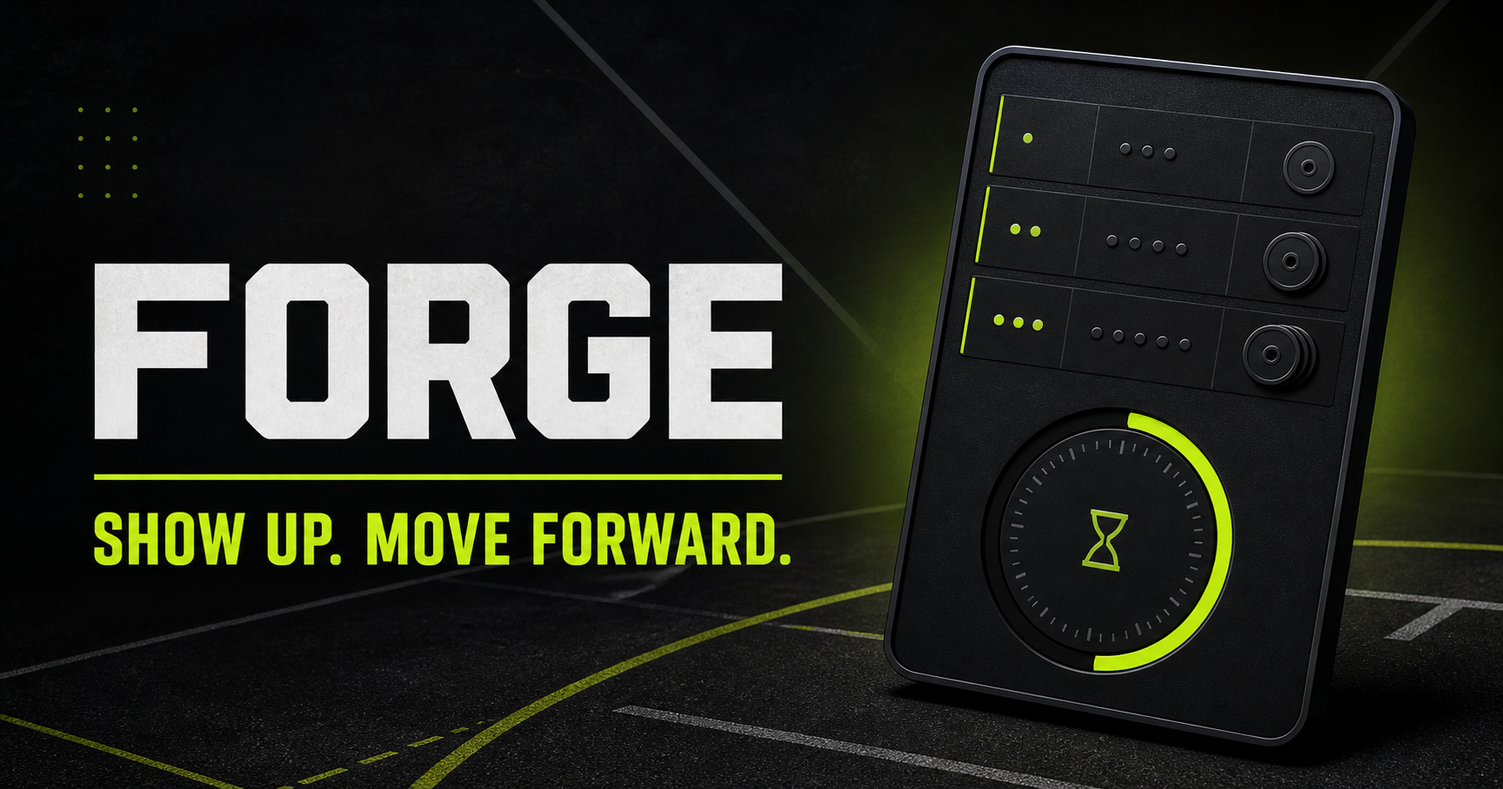
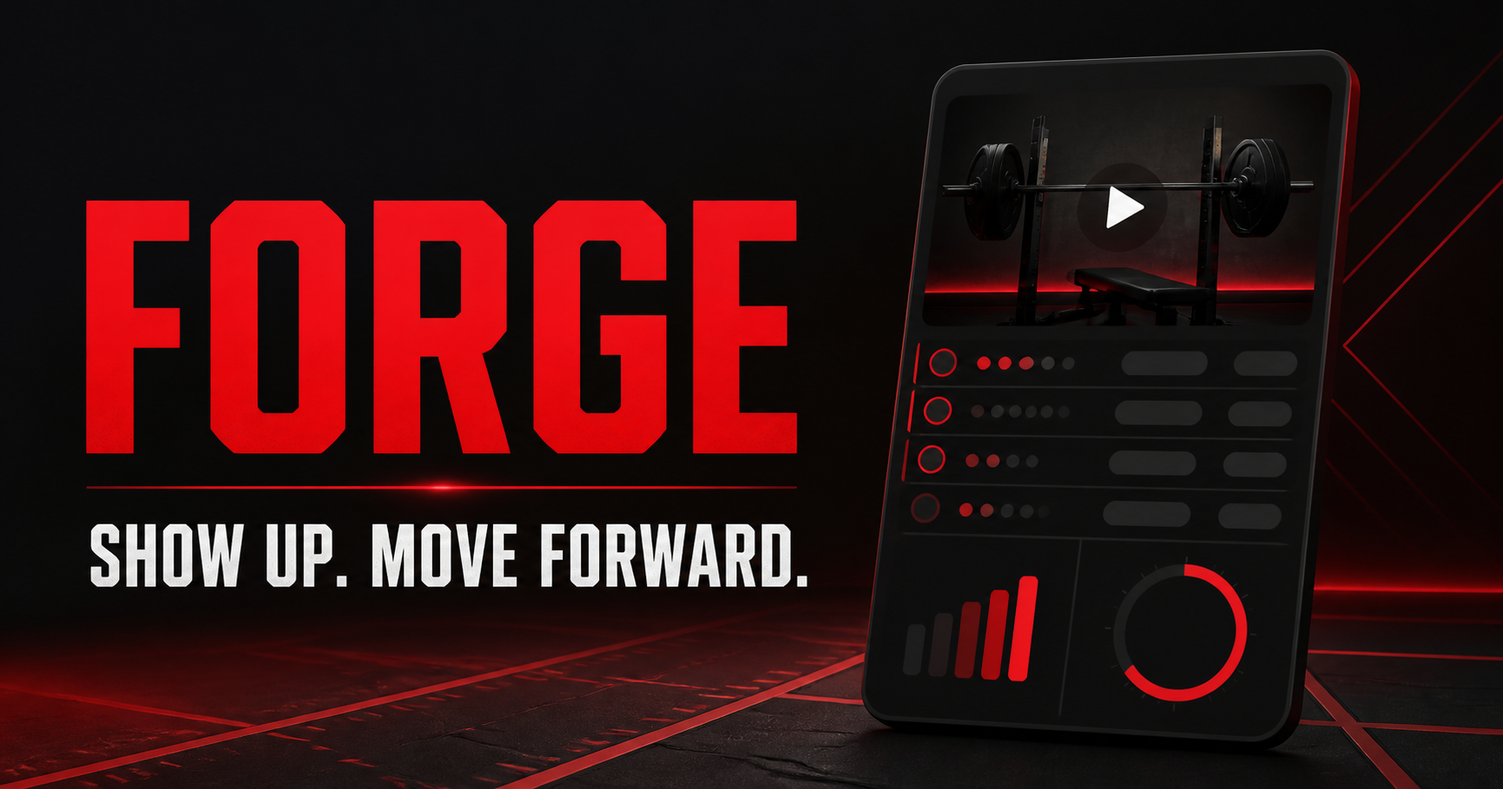
Update Forge theme videos and rest timer

diff --git a/app/globals.css b/app/globals.css
@@ -1,4 +1,6 @@
 @import url('https://fonts.googleapis.com/css2?family=DM+Sans:wght@400;500;600;700&family=Manrope:wght@600;700;800&display=swap');
-:root{color-scheme:dark;--bg:#080c0a;--panel:#121814;--line:#2a332c;--ink:#f3f7ef;--muted:#919c94;--acid:#cbff47}*{box-sizing:border-box}html{background:var(--bg)}body{margin:0;color:var(--ink);background:radial-gradient(circle at 78% -15%,#24331d 0,transparent 34rem),var(--bg);font-family:'DM Sans',sans-serif}button,a{font:inherit;-webkit-tap-highlight-color:transparent}button{cursor:pointer}.site-shell{max-width:1320px;min-height:100vh;margin:auto;padding:0 28px}.app-header{height:78px;display:flex;align-items:center;justify-content:space-between;border-bottom:1px solid var(--line)}.wordmark{display:flex;align-items:center;gap:11px;color:var(--ink);background:none;border:0;font:800 14px Manrope;letter-spacing:.15em}.mark{display:grid;place-items:center;width:34px;height:34px;background:var(--acid);color:#11170e;border-radius:10px 2px 10px 2px;font-size:19px}.week-pill{color:var(--muted);font-size:10px;letter-spacing:.11em}.sheet-button{display:flex;align-items:center;gap:8px;color:#dce7dc;text-decoration:none;font-size:12px}.sheet-grid{display:grid;place-items:center;width:31px;height:31px;border:1px solid #415044;border-radius:8px;color:var(--acid)}.home-view{padding:70px 0 36px}.hero-copy-block{display:grid;grid-template-columns:1.1fr .9fr;align-items:end;margin-bottom:47px}.kicker{color:var(--acid);font-size:11px;font-weight:800;letter-spacing:.15em}.hero-copy-block h1,.summary-hero h1{margin:10px 0 0;font:800 clamp(48px,6.6vw,86px)/.96 Manrope;letter-spacing:-.065em}.hero-copy-block h1 span{color:var(--acid)}.intro{max-width:440px;margin:0 0 7px;color:var(--muted);font-size:17px;line-height:1.6}.day-grid{display:grid;grid-template-columns:repeat(4,1fr);gap:13px}.day-card{min-height:285px;padding:20px;text-align:left;color:var(--ink);background:rgba(17,23,19,.82);border:1px solid var(--line);border-radius:18px;transition:.2s;display:flex;flex-direction:column;position:relative;overflow:hidden}.day-card:after{content:"";position:absolute;width:170px;height:170px;right:-90px;bottom:-110px;border:32px solid #273029;border-radius:50%}.day-card:hover,.day-card.active{transform:translateY(-3px);border-color:#7e9e42;background:#182019}.day-card.active{box-shadow:inset 0 -3px var(--acid)}.day-card-top,.day-card-meta{display:flex;align-items:center;justify-content:space-between}.day-card-top b,.day-card-top i{font-size:9px;letter-spacing:.13em}.day-card-top b{color:var(--acid)}.day-card-top i{color:#647068;font-style:normal}.day-card-number{margin-top:28px;font:800 50px/1 Manrope;color:#3b463e;letter-spacing:-.05em}.day-card-type{margin-top:13px;font:700 21px Manrope;text-transform:uppercase}.day-card-focus{margin-top:6px;color:var(--muted);font-size:12px}.day-card-meta{margin-top:auto;position:relative;z-index:1}.day-card-meta b,.day-card-meta small{font-size:10px}.day-card-meta b{color:#d7dfd8}.day-card-meta small{color:#6f7a72}.start-dock{margin-top:20px;padding:19px 20px 19px 24px;display:flex;align-items:center;justify-content:space-between;background:#141b16;border:1px solid var(--line);border-radius:16px}.start-dock>div span,.start-dock>div b{display:block}.start-dock>div span{color:var(--muted);font-size:9px;letter-spacing:.13em}.start-dock>div b{margin-top:5px;font:700 16px Manrope}.primary-action{min-width:230px;padding:15px 18px;border:0;border-radius:11px;background:var(--acid);color:#121810;font-weight:800;display:flex;align-items:center;justify-content:space-between}.primary-action span{font-size:20px}.source-note{text-align:center;color:#647068;font-size:10px;margin-top:17px}.source-note>span{margin:0 7px}.green-dot,.pulse-dot{display:inline-block;width:6px;height:6px;margin-right:7px!important;border-radius:50%;background:var(--acid)}.pulse-dot{animation:pulse 1s infinite}@keyframes pulse{50%{opacity:.25}}.session-progress{display:flex;align-items:center;gap:10px;color:var(--muted);font-size:9px;letter-spacing:.1em}.session-progress i{width:105px;height:3px;background:#2b342d}.session-progress b{display:block;height:100%;background:var(--acid)}.workout-view{padding:35px 0}.workout-titlebar{display:flex;justify-content:space-between;align-items:end;margin-bottom:22px}.step-label{color:var(--acid);font-size:10px;font-weight:800;letter-spacing:.13em}.workout-titlebar h2{margin:8px 0 4px;font:800 clamp(31px,4vw,53px)/1 Manrope;letter-spacing:-.05em}.workout-titlebar p{margin:0;color:var(--muted);font-size:11px}.exit-button{color:var(--muted);background:none;border:0;font-size:11px}.slide-card{display:grid;grid-template-columns:1.05fr .95fr;min-height:510px;background:var(--panel);border:1px solid var(--line);border-radius:22px;overflow:hidden}.demo-panel{display:grid;grid-template-rows:1fr auto;border-right:1px solid var(--line)}.demo-visual{min-height:380px;position:relative;display:grid;place-items:center;overflow:hidden;background:radial-gradient(circle at 50% 45%,#28331f 0,#101612 57%)}.exercise-letter{position:absolute;font:800 250px/1 Manrope;color:transparent;-webkit-text-stroke:1px #2d382d;opacity:.72}.motion-lines{position:absolute;inset:20% 13%;border:1px solid #28332a;transform:skew(-16deg);box-shadow:48px 23px 0 -47px var(--acid),-55px -18px 0 -54px var(--acid)}.play-button{z-index:2;width:78px;height:78px;border-radius:50%;display:grid;place-items:center;background:var(--acid);box-shadow:0 0 0 12px rgba(203,255,71,.08)}.play-button i{margin-left:5px;width:0;height:0;border-top:10px solid transparent;border-bottom:10px solid transparent;border-left:16px solid #11170e}.demo-caption{position:absolute;bottom:26px;color:#89948c;font-size:10px;text-transform:uppercase;letter-spacing:.12em}.cue{padding:18px 24px;background:#0e1310;border-top:1px solid var(--line)}.cue span,.set-line>span,.metric-block label,.next-time>span{color:var(--acid);font-size:9px;font-weight:800;letter-spacing:.12em}.cue p{margin:6px 0 0;color:#b7c1b9;font-size:12px}.entry-panel{padding:29px 34px;display:flex;flex-direction:column}.set-line{display:flex;align-items:center;justify-content:space-between;margin-bottom:25px}.set-line div{display:flex;gap:7px}.set-line i{display:grid;place-items:center;width:27px;height:27px;border:1px solid #39443c;border-radius:50%;color:#758078;font-size:10px;font-style:normal}.set-line i.active{color:#11180f;background:var(--acid);border-color:var(--acid);font-weight:800}.metric-block{padding:21px 0;border-top:1px solid var(--line)}.metric-block label{display:flex;justify-content:space-between}.metric-block label small{color:#778279;font-size:9px;letter-spacing:0}.stepper{display:grid;grid-template-columns:58px 1fr 58px;align-items:center;margin-top:13px}.stepper button{height:48px;color:var(--ink);background:#202821;border:1px solid #364139;border-radius:11px;font-size:22px}.stepper strong{text-align:center;font:800 48px/1 Manrope;letter-spacing:-.05em}.stepper em{margin-left:6px;color:var(--muted);font:500 12px 'DM Sans';font-style:normal}.bodyweight-value{margin-top:17px;font:800 29px Manrope;color:#dce6dc}.log-set-button{margin-top:auto;padding:16px 18px;color:#10160e;background:var(--acid);border:0;border-radius:11px;display:flex;justify-content:space-between;align-items:center}.log-set-button span{font-weight:800}.log-set-button b{font-size:9px;letter-spacing:.1em}.sync-line{text-align:center;color:#6c786f;font-size:9px;letter-spacing:.06em;margin:12px 0 0}.exercise-rail{display:flex;gap:8px;overflow:auto;padding:14px 0 2px;scrollbar-width:none}.exercise-rail button{flex:0 0 150px;padding:10px;text-align:left;white-space:nowrap;overflow:hidden;color:#778178;background:none;border:1px solid #252e27;border-radius:10px}.exercise-rail button span{display:block;color:#657168;font-size:9px}.exercise-rail button b{display:block;margin-top:4px;text-overflow:ellipsis;overflow:hidden;font-size:10px}.exercise-rail button.active{border-color:#779542;color:#eaf1ea}.exercise-rail button.active span,.exercise-rail button.done span{color:var(--acid)}.timer-sheet{position:fixed;z-index:20;left:50%;bottom:22px;transform:translateX(-50%);width:min(610px,calc(100% - 28px));padding:15px 18px;display:grid;grid-template-columns:auto 1fr auto;gap:18px;align-items:center;background:#eef7e7;color:#132013;border-radius:18px;box-shadow:0 20px 80px #000}.timer-ring{--timer-progress:360deg;width:72px;height:72px;border-radius:50%;display:grid;place-content:center;text-align:center;background:radial-gradient(circle,#eef7e7 57%,transparent 59%),conic-gradient(#59772b var(--timer-progress),#cad6c4 0)}.timer-ring strong{font:800 20px Manrope}.timer-ring span,.timer-sheet>div:nth-child(2)>span{display:block;font-size:8px;letter-spacing:.1em}.timer-sheet>div:nth-child(2)>b{font-size:13px}.timer-sheet button{background:none;border:0;color:#263a22;font-weight:800;font-size:10px}.summary-view{padding:58px 0 40px}.summary-hero{text-align:center}.finish-check{display:grid;place-items:center;width:50px;height:50px;margin:auto;border-radius:50%;background:var(--acid);color:#11180e;font-size:24px}.summary-hero h1{font-size:clamp(49px,6vw,78px)}.summary-hero>p:last-child{color:var(--muted)}.stats-grid{display:grid;grid-template-columns:repeat(4,1fr);margin-top:45px;border:1px solid var(--line);border-radius:18px;overflow:hidden}.stats-grid>div{padding:24px;border-right:1px solid var(--line);background:var(--panel)}.stats-grid>div:last-child{border:0}.stats-grid span,.analysis-tag{display:block;color:var(--muted);font-size:9px;letter-spacing:.12em}.stats-grid strong{display:block;margin:10px 0 4px;font:800 39px Manrope}.stats-grid small{color:#727e75}.stats-grid .positive{color:var(--acid)}.analysis-card{display:grid;grid-template-columns:1.25fr .75fr;gap:50px;margin-top:16px;padding:34px;background:linear-gradient(120deg,#171f19,#111712);border:1px solid var(--line);border-radius:18px}.analysis-card h2{margin:10px 0;font:800 29px Manrope}.analysis-card p{color:#9ca79e;line-height:1.6}.next-time{border-left:1px solid var(--line);padding-left:35px}.next-time ul{padding-left:17px;color:#aeb9b0;font-size:12px;line-height:2}.summary-actions{display:flex;justify-content:space-between;align-items:center;margin-top:18px}.summary-actions a{color:var(--muted);font-size:11px;text-decoration:none}
-@media(max-width:760px){.site-shell{padding:0 15px}.app-header{height:64px;position:sticky;top:0;z-index:10;background:rgba(8,12,10,.92);backdrop-filter:blur(12px)}.week-pill,.sheet-text{display:none}.home-view{padding:36px 0 28px}.hero-copy-block{display:block;margin-bottom:28px}.hero-copy-block h1{font-size:48px}.intro{font-size:14px;margin-top:19px}.day-grid{grid-template-columns:1fr 1fr;gap:9px}.day-card{min-height:210px;padding:15px}.day-card-top i{display:none}.day-card-number{font-size:35px;margin-top:21px}.day-card-type{font-size:15px}.day-card-focus{font-size:10px}.day-card-meta b{display:none}.start-dock{position:sticky;bottom:10px;z-index:8;padding:10px 10px 10px 15px;background:rgba(20,27,22,.95);backdrop-filter:blur(10px)}.start-dock>div span{display:none}.start-dock>div b{font-size:12px}.primary-action{min-width:150px;padding:13px}.source-note{line-height:1.5}.session-progress i{width:62px}.workout-view{padding:20px 0}.workout-titlebar{align-items:start}.workout-titlebar h2{font-size:29px;max-width:270px}.slide-card{grid-template-columns:1fr;border-radius:17px}.demo-panel{border-right:0}.demo-visual{min-height:230px}.exercise-letter{font-size:150px}.play-button{width:62px;height:62px}.cue{padding:14px 17px}.entry-panel{padding:20px}.set-line{margin-bottom:13px}.metric-block{padding:15px 0}.stepper{grid-template-columns:52px 1fr 52px}.stepper button{height:44px}.stepper strong{font-size:40px}.log-set-button{position:sticky;bottom:8px}.exercise-rail{padding-bottom:20px}.timer-sheet{bottom:10px;grid-template-columns:auto 1fr;padding:12px}.timer-ring{width:58px;height:58px}.timer-sheet>button{grid-column:2;text-align:left}.summary-view{padding:35px 0}.summary-hero h1{font-size:50px}.stats-grid{grid-template-columns:1fr 1fr}.stats-grid>div{border-bottom:1px solid var(--line)}.stats-grid>div:nth-child(2){border-right:0}.stats-grid strong{font-size:32px}.analysis-card{grid-template-columns:1fr;gap:18px;padding:24px}.next-time{border-left:0;border-top:1px solid var(--line);padding:20px 0 0}.summary-actions{align-items:stretch;flex-direction:column-reverse;gap:16px}.summary-actions a{text-align:center}}
+:root{color-scheme:dark;--bg:#070707;--panel:#121212;--line:#312020;--ink:#f7f3f3;--muted:#a19696;--acid:#ff2f2f}*{box-sizing:border-box}html{background:var(--bg)}body{margin:0;color:var(--ink);background:radial-gradient(circle at 78% -15%,#3a0d0d 0,transparent 34rem),var(--bg);font-family:'DM Sans',sans-serif}button,a{font:inherit;-webkit-tap-highlight-color:transparent}button{cursor:pointer}.site-shell{max-width:1320px;min-height:100vh;margin:auto;padding:0 28px}.app-header{height:78px;display:flex;align-items:center;justify-content:space-between;border-bottom:1px solid var(--line)}.wordmark{display:flex;align-items:center;gap:11px;color:var(--ink);background:none;border:0;font:800 14px Manrope;letter-spacing:.15em}.mark{display:grid;place-items:center;width:34px;height:34px;background:var(--acid);color:#11170e;border-radius:10px 2px 10px 2px;font-size:19px}.week-pill{color:var(--muted);font-size:10px;letter-spacing:.11em}.sheet-button{display:flex;align-items:center;gap:8px;color:#eadede;text-decoration:none;font-size:12px}.sheet-grid{display:grid;place-items:center;width:31px;height:31px;border:1px solid #543333;border-radius:8px;color:var(--acid)}.home-view{padding:70px 0 36px}.hero-copy-block{display:grid;grid-template-columns:1.1fr .9fr;align-items:end;margin-bottom:47px}.kicker{color:var(--acid);font-size:11px;font-weight:800;letter-spacing:.15em}.hero-copy-block h1,.summary-hero h1{margin:10px 0 0;font:800 clamp(48px,6.6vw,86px)/.96 Manrope;letter-spacing:-.065em}.hero-copy-block h1 span{color:var(--acid)}.intro{max-width:440px;margin:0 0 7px;color:var(--muted);font-size:17px;line-height:1.6}.day-grid{display:grid;grid-template-columns:repeat(4,1fr);gap:13px}.day-card{min-height:285px;padding:20px;text-align:left;color:var(--ink);background:rgba(17,23,19,.82);border:1px solid var(--line);border-radius:18px;transition:.2s;display:flex;flex-direction:column;position:relative;overflow:hidden}.day-card:after{content:"";position:absolute;width:170px;height:170px;right:-90px;bottom:-110px;border:32px solid #382222;border-radius:50%}.day-card:hover,.day-card.active{transform:translateY(-3px);border-color:#a62d2d;background:#1c1111}.day-card.active{box-shadow:inset 0 -3px var(--acid)}.day-card-top,.day-card-meta{display:flex;align-items:center;justify-content:space-between}.day-card-top b,.day-card-top i{font-size:9px;letter-spacing:.13em}.day-card-top b{color:var(--acid)}.day-card-top i{color:#887979;font-style:normal}.day-card-number{margin-top:28px;font:800 50px/1 Manrope;color:#4a3030;letter-spacing:-.05em}.day-card-type{margin-top:13px;font:700 21px Manrope;text-transform:uppercase}.day-card-focus{margin-top:6px;color:var(--muted);font-size:12px}.day-card-meta{margin-top:auto;position:relative;z-index:1}.day-card-meta b,.day-card-meta small{font-size:10px}.day-card-meta b{color:#eadede}.day-card-meta small{color:#8c7c7c}.start-dock{margin-top:20px;padding:19px 20px 19px 24px;display:flex;align-items:center;justify-content:space-between;background:#171111;border:1px solid var(--line);border-radius:16px}.start-dock>div span,.start-dock>div b{display:block}.start-dock>div span{color:var(--muted);font-size:9px;letter-spacing:.13em}.start-dock>div b{margin-top:5px;font:700 16px Manrope}.primary-action{min-width:230px;padding:15px 18px;border:0;border-radius:11px;background:var(--acid);color:#121810;font-weight:800;display:flex;align-items:center;justify-content:space-between}.primary-action span{font-size:20px}.source-note{text-align:center;color:#887979;font-size:10px;margin-top:17px}.source-note>span{margin:0 7px}.green-dot,.pulse-dot{display:inline-block;width:6px;height:6px;margin-right:7px!important;border-radius:50%;background:var(--acid)}.pulse-dot{animation:pulse 1s infinite}@keyframes pulse{50%{opacity:.25}}.session-progress{display:flex;align-items:center;gap:10px;color:var(--muted);font-size:9px;letter-spacing:.1em}.session-progress i{width:105px;height:3px;background:#362424}.session-progress b{display:block;height:100%;background:var(--acid)}.workout-view{padding:35px 0}.workout-titlebar{display:flex;justify-content:space-between;align-items:end;margin-bottom:22px}.step-label{color:var(--acid);font-size:10px;font-weight:800;letter-spacing:.13em}.workout-titlebar h2{margin:8px 0 4px;font:800 clamp(31px,4vw,53px)/1 Manrope;letter-spacing:-.05em}.workout-titlebar p{margin:0;color:var(--muted);font-size:11px}.exit-button{color:var(--muted);background:none;border:0;font-size:11px}.slide-card{display:grid;grid-template-columns:1.05fr .95fr;min-height:510px;background:var(--panel);border:1px solid var(--line);border-radius:22px;overflow:hidden}.demo-panel{display:grid;grid-template-rows:1fr auto;border-right:1px solid var(--line)}.demo-visual{min-height:380px;position:relative;display:grid;place-items:center;overflow:hidden;background:radial-gradient(circle at 50% 45%,#321313 0,#0d0909 57%)}.exercise-letter{position:absolute;font:800 250px/1 Manrope;color:transparent;-webkit-text-stroke:1px #2d382d;opacity:.72}.motion-lines{position:absolute;inset:20% 13%;border:1px solid #342020;transform:skew(-16deg);box-shadow:48px 23px 0 -47px var(--acid),-55px -18px 0 -54px var(--acid)}.play-button{z-index:2;width:78px;height:78px;border-radius:50%;display:grid;place-items:center;background:var(--acid);box-shadow:0 0 0 12px rgba(255,47,47,.08)}.play-button i{margin-left:5px;width:0;height:0;border-top:10px solid transparent;border-bottom:10px solid transparent;border-left:16px solid #11170e}.demo-caption{position:absolute;bottom:26px;color:#89948c;font-size:10px;text-transform:uppercase;letter-spacing:.12em}.cue{padding:18px 24px;background:#0e1310;border-top:1px solid var(--line)}.cue span,.set-line>span,.metric-block label,.next-time>span{color:var(--acid);font-size:9px;font-weight:800;letter-spacing:.12em}.cue p{margin:6px 0 0;color:#b7c1b9;font-size:12px}.entry-panel{padding:29px 34px;display:flex;flex-direction:column}.set-line{display:flex;align-items:center;justify-content:space-between;margin-bottom:25px}.set-line div{display:flex;gap:7px}.set-line i{display:grid;place-items:center;width:27px;height:27px;border:1px solid #39443c;border-radius:50%;color:#758078;font-size:10px;font-style:normal}.set-line i.active{color:#11180f;background:var(--acid);border-color:var(--acid);font-weight:800}.metric-block{padding:21px 0;border-top:1px solid var(--line)}.metric-block label{display:flex;justify-content:space-between}.metric-block label small{color:#778279;font-size:9px;letter-spacing:0}.stepper{display:grid;grid-template-columns:58px 1fr 58px;align-items:center;margin-top:13px}.stepper button{height:48px;color:var(--ink);background:#211616;border:1px solid #4b2c2c;border-radius:11px;font-size:22px}.stepper strong{text-align:center;font:800 48px/1 Manrope;letter-spacing:-.05em}.stepper em{margin-left:6px;color:var(--muted);font:500 12px 'DM Sans';font-style:normal}.bodyweight-value{margin-top:17px;font:800 29px Manrope;color:#eee3e3}.log-set-button{margin-top:auto;padding:16px 18px;color:#10160e;background:var(--acid);border:0;border-radius:11px;display:flex;justify-content:space-between;align-items:center}.log-set-button span{font-weight:800}.log-set-button b{font-size:9px;letter-spacing:.1em}.sync-line{text-align:center;color:#6c786f;font-size:9px;letter-spacing:.06em;margin:12px 0 0}.exercise-rail{display:flex;gap:8px;overflow:auto;padding:14px 0 2px;scrollbar-width:none}.exercise-rail button{flex:0 0 150px;padding:10px;text-align:left;white-space:nowrap;overflow:hidden;color:#778178;background:none;border:1px solid #252e27;border-radius:10px}.exercise-rail button span{display:block;color:#657168;font-size:9px}.exercise-rail button b{display:block;margin-top:4px;text-overflow:ellipsis;overflow:hidden;font-size:10px}.exercise-rail button.active{border-color:#a93b3b;color:#fff0f0}.exercise-rail button.active span,.exercise-rail button.done span{color:var(--acid)}.timer-sheet{position:fixed;z-index:20;left:50%;bottom:22px;transform:translateX(-50%);width:min(610px,calc(100% - 28px));padding:15px 18px;display:grid;grid-template-columns:auto 1fr auto;gap:18px;align-items:center;background:#161010;color:#f7eded;border-radius:18px;box-shadow:0 20px 80px #000}.timer-ring{--timer-progress:360deg;width:72px;height:72px;border-radius:50%;display:grid;place-content:center;text-align:center;background:radial-gradient(circle,#161010 57%,transparent 59%),conic-gradient(#ff2f2f var(--timer-progress),#3a2626 0)}.timer-ring strong{font:800 20px Manrope}.timer-ring span,.timer-sheet>div:nth-child(2)>span{display:block;font-size:8px;letter-spacing:.1em}.timer-sheet>div:nth-child(2)>b{font-size:13px}.timer-sheet button{background:none;border:0;color:#f3dede;font-weight:800;font-size:10px}.summary-view{padding:58px 0 40px}.summary-hero{text-align:center}.finish-check{display:grid;place-items:center;width:50px;height:50px;margin:auto;border-radius:50%;background:var(--acid);color:#11180e;font-size:24px}.summary-hero h1{font-size:clamp(49px,6vw,78px)}.summary-hero>p:last-child{color:var(--muted)}.stats-grid{display:grid;grid-template-columns:repeat(4,1fr);margin-top:45px;border:1px solid var(--line);border-radius:18px;overflow:hidden}.stats-grid>div{padding:24px;border-right:1px solid var(--line);background:var(--panel)}.stats-grid>div:last-child{border:0}.stats-grid span,.analysis-tag{display:block;color:var(--muted);font-size:9px;letter-spacing:.12em}.stats-grid strong{display:block;margin:10px 0 4px;font:800 39px Manrope}.stats-grid small{color:#727e75}.stats-grid .positive{color:var(--acid)}.analysis-card{display:grid;grid-template-columns:1.25fr .75fr;gap:50px;margin-top:16px;padding:34px;background:linear-gradient(120deg,#1d1111,#0f0b0b);border:1px solid var(--line);border-radius:18px}.analysis-card h2{margin:10px 0;font:800 29px Manrope}.analysis-card p{color:#ad9b9b;line-height:1.6}.next-time{border-left:1px solid var(--line);padding-left:35px}.next-time ul{padding-left:17px;color:#bca9a9;font-size:12px;line-height:2}.summary-actions{display:flex;justify-content:space-between;align-items:center;margin-top:18px}.summary-actions a{color:var(--muted);font-size:11px;text-decoration:none}
+@media(max-width:760px){.site-shell{padding:0 15px}.app-header{height:64px;position:sticky;top:0;z-index:10;background:rgba(7,7,7,.92);backdrop-filter:blur(12px)}.week-pill,.sheet-text{display:none}.home-view{padding:36px 0 28px}.hero-copy-block{display:block;margin-bottom:28px}.hero-copy-block h1{font-size:48px}.intro{font-size:14px;margin-top:19px}.day-grid{grid-template-columns:1fr 1fr;gap:9px}.day-card{min-height:210px;padding:15px}.day-card-top i{display:none}.day-card-number{font-size:35px;margin-top:21px}.day-card-type{font-size:15px}.day-card-focus{font-size:10px}.day-card-meta b{display:none}.start-dock{position:sticky;bottom:10px;z-index:8;padding:10px 10px 10px 15px;background:rgba(23,17,17,.95);backdrop-filter:blur(10px)}.start-dock>div span{display:none}.start-dock>div b{font-size:12px}.primary-action{min-width:150px;padding:13px}.source-note{line-height:1.5}.session-progress i{width:62px}.workout-view{padding:20px 0}.workout-titlebar{align-items:start}.workout-titlebar h2{font-size:29px;max-width:270px}.slide-card{grid-template-columns:1fr;border-radius:17px}.demo-panel{border-right:0}.demo-visual{min-height:230px}.exercise-letter{font-size:150px}.play-button{width:62px;height:62px}.cue{padding:14px 17px}.entry-panel{padding:20px}.set-line{margin-bottom:13px}.metric-block{padding:15px 0}.stepper{grid-template-columns:52px 1fr 52px}.stepper button{height:44px}.stepper strong{font-size:40px}.log-set-button{position:sticky;bottom:8px}.exercise-rail{padding-bottom:20px}.timer-sheet{bottom:10px;grid-template-columns:auto 1fr;padding:12px}.timer-ring{width:58px;height:58px}.timer-sheet>button{grid-column:2;text-align:left}.summary-view{padding:35px 0}.summary-hero h1{font-size:50px}.stats-grid{grid-template-columns:1fr 1fr}.stats-grid>div{border-bottom:1px solid var(--line)}.stats-grid>div:nth-child(2){border-right:0}.stats-grid strong{font-size:32px}.analysis-card{grid-template-columns:1fr;gap:18px;padding:24px}.next-time{border-left:0;border-top:1px solid var(--line);padding:20px 0 0}.summary-actions{align-items:stretch;flex-direction:column-reverse;gap:16px}.summary-actions a{text-align:center}}
 @media(max-width:390px){.day-card{min-height:196px}.day-card-number{margin-top:14px}.start-dock>div{display:none}.start-dock .primary-action{width:100%}}
+.video-frame{position:absolute;inset:0;width:100%;height:100%;border:0;background:#000}.timer-sheet{background:#171010;color:#fff1f1;border:1px solid #5a2929;box-shadow:0 20px 80px #000}.timer-ring{background:radial-gradient(circle,#171010 57%,transparent 59%),conic-gradient(#ff2f2f var(--timer-progress),#462828 0)}.rest-info{min-width:0}.rest-info>b{display:block;overflow:hidden;text-overflow:ellipsis;white-space:nowrap}.rest-options{display:flex;gap:7px;margin-top:10px}.rest-options button{padding:7px 12px;color:#fff;background:#2a1717;border:1px solid #673030;border-radius:999px}.rest-options button:hover{background:#ff2f2f;color:#fff}.timer-sheet .skip-rest{color:#ffdede}
+@media(max-width:760px){.demo-visual{aspect-ratio:16/9;min-height:0}.timer-sheet{grid-template-columns:auto 1fr auto}.timer-sheet .skip-rest{grid-column:3;grid-row:1}.rest-options button{padding:6px 10px}}

diff --git a/app/page.tsx b/app/page.tsx
@@ -45,18 +45,29 @@ const workouts: Workout[] = [
 function weekLabel(){const now=new Date();const monday=new Date(now);monday.setDate(now.getDate()-((now.getDay()+6)%7));const sunday=new Date(monday);sunday.setDate(monday.getDate()+6);return `${monday.toLocaleDateString("en-CA",{month:"short",day:"numeric"})} – ${sunday.toLocaleDateString("en-CA",{month:"short",day:"numeric"})}`}
 function formatTime(seconds:number){return `${Math.floor(seconds/60)}:${String(seconds%60).padStart(2,"0")}`}
 
+const videoIds: Record<string,string> = {
+  "Dumbbell Chest Press":"VmB1G1K7v94", "Single Arm Dumbbell Row":"pYcpY20QaE8", "Cable Lateral Raise":"3VcKaXpzqRo",
+  "Single Arm Cable Lat Pulldown":"CAwf7n6Luuc", "Cable Chest Fly":"Iwe6AmxVf7o", "Single Arm Cable Bicep Curl":"av7-8igSXTs",
+  "Single Arm Dumbbell Tricep Extension":"-Vyt2QdsR7E", "Single Leg Glute Bridge":"8bbE64NuDTU", "Romanian Dumbbell Deadlift":"JCXUYuzwNrM",
+  "Cable Lateral Leg Raise":"3VcKaXpzqRo", "Leg Press Calf Raise":"YMmgqO8Jo-k", "Cable Crunch":"AV5PmZJIrrw",
+  "Incline Dumbbell Chest Press":"8iPEnn-ltC8", "Chest Supported Dumbbell Row":"H75im9fAUMc", "Dumbbell Shoulder Press":"qEwKCR5JCog",
+  "Dumbbell Chest Fly":"eozdVDA78K0", "Cable Bicep Curl":"av7-8igSXTs", "Sit Ups to Toe Touches":"4XLEnwUr1d8",
+  "Leg Press Machine":"IZxyjW7MPJQ", "Bulgarian Split Squat":"2C-uNgKwPLE", "Forward Lunge":"QOVaHwm-Q6U",
+  "Kettlebell Deadbug":"4XLEnwUr1d8", "Plank Jacks":"zA9nMxopSlA"
+};
+
 export default function Home(){
-  const [view,setView]=useState<View>("home"); const [selectedDay,setSelectedDay]=useState(1); const [exerciseIndex,setExerciseIndex]=useState(0); const [setNumber,setSetNumber]=useState(1); const [reps,setReps]=useState(10); const [load,setLoad]=useState(0); const [logs,setLogs]=useState<SetLog[]>([]); const [restLeft,setRestLeft]=useState(0); const [resting,setResting]=useState(false); const [syncState,setSyncState]=useState<"idle"|"saving"|"saved">("idle"); const [sessionId,setSessionId]=useState(""); const [startedAt,setStartedAt]=useState(0); const timer=useRef<ReturnType<typeof setInterval>|null>(null);
+  const [view,setView]=useState<View>("home"); const [selectedDay,setSelectedDay]=useState(1); const [exerciseIndex,setExerciseIndex]=useState(0); const [setNumber,setSetNumber]=useState(1); const [reps,setReps]=useState(10); const [load,setLoad]=useState(0); const [logs,setLogs]=useState<SetLog[]>([]); const [restLeft,setRestLeft]=useState(0); const [restTarget,setRestTarget]=useState(60); const [resting,setResting]=useState(false); const [syncState,setSyncState]=useState<"idle"|"saving"|"saved">("idle"); const [sessionId,setSessionId]=useState(""); const [startedAt,setStartedAt]=useState(0); const timer=useRef<ReturnType<typeof setInterval>|null>(null);
   const workout=workouts[selectedDay-1]; const exercise=workout.exercises[exerciseIndex]; const totalSets=useMemo(()=>workout.exercises.reduce((sum,item)=>sum+item.sets,0),[workout]); const progress=totalSets?Math.round(logs.length/totalSets*100):0;
   useEffect(()=>{if(!resting)return;timer.current=setInterval(()=>setRestLeft(value=>{if(value<=1){setResting(false);if(timer.current)clearInterval(timer.current);return 0}return value-1}),1000);return()=>{if(timer.current)clearInterval(timer.current)}},[resting]);
   async function startWorkout(){setExerciseIndex(0);setSetNumber(1);setLogs([]);setReps(workout.exercises[0].reps);setLoad(workout.exercises[0].load);setStartedAt(Date.now());setView("workout");setSyncState("saving");try{const response=await fetch("/api/workouts",{method:"POST",headers:{"content-type":"application/json"},body:JSON.stringify({action:"start",day:workout.day,sheetId:workout.sheetId,date:new Date().toISOString()})});const data=await response.json() as {sessionId?:string};if(data.sessionId)setSessionId(data.sessionId)}catch{}setSyncState("saved")}
-  async function saveSet(){const entry:SetLog={exercise:exercise.name,set:setNumber,reps,load,baselineLoad:exercise.load};setLogs(value=>[...value,entry]);setSyncState("saving");if(exercise.rest>0){setRestLeft(exercise.rest);setResting(true)}try{await fetch("/api/workouts",{method:"POST",headers:{"content-type":"application/json"},body:JSON.stringify({action:"set",sessionId,day:workout.day,exercise:exercise.name,setNumber,reps,load})})}catch{}setSyncState("saved");if(setNumber<exercise.sets){setSetNumber(value=>value+1);return}if(exerciseIndex<workout.exercises.length-1){const next=workout.exercises[exerciseIndex+1];setExerciseIndex(value=>value+1);setSetNumber(1);setReps(next.reps);setLoad(next.load);return}finishWorkout()}
+  async function saveSet(){const entry:SetLog={exercise:exercise.name,set:setNumber,reps,load,baselineLoad:exercise.load};setLogs(value=>[...value,entry]);setSyncState("saving");if(exercise.rest>0){setRestTarget(exercise.rest);setRestLeft(exercise.rest);setResting(true)}try{await fetch("/api/workouts",{method:"POST",headers:{"content-type":"application/json"},body:JSON.stringify({action:"set",sessionId,day:workout.day,exercise:exercise.name,setNumber,reps,load})})}catch{}setSyncState("saved");if(setNumber<exercise.sets){setSetNumber(value=>value+1);return}if(exerciseIndex<workout.exercises.length-1){const next=workout.exercises[exerciseIndex+1];setExerciseIndex(value=>value+1);setSetNumber(1);setReps(next.reps);setLoad(next.load);return}finishWorkout()}
   async function finishWorkout(){setResting(false);setView("summary");try{await fetch("/api/workouts",{method:"POST",headers:{"content-type":"application/json"},body:JSON.stringify({action:"finish",sessionId,durationMinutes:Math.max(1,Math.round((Date.now()-startedAt)/60000)),totalSets:logs.length+1})})}catch{}}
   const currentVolume=logs.reduce((sum,item)=>sum+item.load*item.reps,0);const baselineVolume=logs.reduce((sum,item)=>sum+item.baselineLoad*item.reps,0);const volumeChange=baselineVolume?Math.round((currentVolume-baselineVolume)/baselineVolume*100):0;const duration=startedAt?Math.max(1,Math.round((Date.now()-startedAt)/60000)):0;
   return <main className={`site-shell view-${view}`}>
     <header className="app-header"><button className="wordmark" onClick={()=>setView("home")} aria-label="Go to workout home"><span className="mark">F</span><span>FORGE</span></button>{view==="workout"?<div className="session-progress"><span>{logs.length}/{totalSets} SETS</span><i><b style={{width:`${progress}%`}}/></i></div>:<span className="week-pill">WEEK OF {weekLabel().toUpperCase()}</span>}<a className="sheet-button" href={workout.sheetUrl} target="_blank" rel="noreferrer"><span className="sheet-grid">▦</span><span className="sheet-text">Open sheet</span></a></header>
     {view==="home"&&<section className="home-view"><div className="hero-copy-block"><div><p className="kicker">YOUR 4-DAY STRENGTH SYSTEM</p><h1>Show up.<br/><span>Move forward.</span></h1></div><p className="intro">Pick today’s workout. We’ll guide every set, time your rest, and keep your training log organized.</p></div><div className="day-grid" role="list" aria-label="Choose a workout day">{workouts.map(item=><button key={item.day} role="listitem" className={`day-card ${selectedDay===item.day?"active":""}`} onClick={()=>setSelectedDay(item.day)}><span className="day-card-top"><b>DAY {item.day}</b><i>{item.accent}</i></span><span className="day-card-number">0{item.day}</span><span className="day-card-type">{item.type} body</span><span className="day-card-focus">{item.focus}</span><span className="day-card-meta"><b>{item.exercises.length} exercises</b><small>Last: {item.lastDate}</small></span></button>)}</div><div className="start-dock"><div><span>READY FOR</span><b>Day {workout.day} · {workout.type} Body</b></div><button className="primary-action" onClick={startWorkout}>Start workout <span>→</span></button></div><div className="source-note"><span className="green-dot"/> Workout plan grounded in your 4 Drive workbooks <span>·</span> a new dated session is created when you start</div></section>}
-    {view==="workout"&&<section className="workout-view"><div className="workout-titlebar"><div><span className="step-label">DAY {workout.day} · {workout.type.toUpperCase()} BODY</span><h2>{exercise.name}</h2><p>{exercise.order} · Exercise {exerciseIndex+1} of {workout.exercises.length}</p></div><button className="exit-button" onClick={()=>setView("home")}>End later</button></div><div className="slide-card"><div className="demo-panel"><div className="demo-visual"><span className="motion-lines"/><span className="exercise-letter">{exercise.order}</span><a className="play-button" href={`https://www.youtube.com/results?search_query=${encodeURIComponent(exercise.name+" exercise demo")}`} target="_blank" rel="noreferrer" aria-label={`Play a demo for ${exercise.name}`}><i/></a><span className="demo-caption">Tap to watch demo</span></div><div className="cue"><span>COACHING CUE</span><p>{exercise.cue}</p></div></div><div className="entry-panel"><div className="set-line"><span>CURRENT SET</span><div>{Array.from({length:exercise.sets}).map((_,index)=><i key={index} className={index+1<=setNumber?"active":""}>{index+1}</i>)}</div></div><div className="metric-block"><label>REPS <small>Target {exercise.repRange}</small></label><div className="stepper"><button onClick={()=>setReps(Math.max(0,reps-1))} aria-label="Decrease reps">−</button><strong>{reps}</strong><button onClick={()=>setReps(reps+1)} aria-label="Increase reps">+</button></div></div><div className="metric-block"><label>LOAD <small>{exercise.unit==="body"?"Bodyweight":`Previous ${exercise.load} lb`}</small></label>{exercise.unit==="body"?<div className="bodyweight-value">BODYWEIGHT</div>:<div className="stepper"><button onClick={()=>setLoad(Math.max(0,load-5))} aria-label="Decrease load">−</button><strong>{load}<em>lb</em></strong><button onClick={()=>setLoad(load+5)} aria-label="Increase load">+</button></div>}</div><button className="log-set-button" onClick={saveSet}><span>Log set {setNumber}</span><b>{syncState==="saving"?"SAVING…":"SAVE + START REST"} →</b></button><p className="sync-line"><span className={syncState==="saving"?"pulse-dot":"green-dot"}/>{syncState==="saving"?"Saving this set":"Session log saved"}</p></div></div><div className="exercise-rail">{workout.exercises.map((item,index)=><button key={item.order} className={`${index===exerciseIndex?"active":""} ${index<exerciseIndex?"done":""}`} onClick={()=>{setExerciseIndex(index);setSetNumber(1);setReps(item.reps);setLoad(item.load)}}><span>{index<exerciseIndex?"✓":item.order}</span><b>{item.name}</b></button>)}</div>{resting&&<div className="timer-sheet" role="dialog" aria-label="Rest timer"><div className="timer-ring" style={{"--timer-progress":`${Math.round(restLeft/Math.max(1,exercise.rest)*360)}deg`} as React.CSSProperties}><strong>{formatTime(restLeft)}</strong><span>REST</span></div><div><span>UP NEXT</span><b>{exercise.name} · Set {setNumber}</b></div><button onClick={()=>setResting(false)}>Skip rest →</button></div>}</section>}
+    {view==="workout"&&<section className="workout-view"><div className="workout-titlebar"><div><span className="step-label">DAY {workout.day} · {workout.type.toUpperCase()} BODY</span><h2>{exercise.name}</h2><p>{exercise.order} · Exercise {exerciseIndex+1} of {workout.exercises.length}</p></div><button className="exit-button" onClick={()=>setView("home")}>End later</button></div><div className="slide-card"><div className="demo-panel"><div className="demo-visual"><iframe key={exercise.name} className="video-frame" src={`https://www.youtube-nocookie.com/embed/${videoIds[exercise.name]}?rel=0&modestbranding=1&playsinline=1`} title={`${exercise.name} exercise demonstration`} allow="accelerometer; autoplay; clipboard-write; encrypted-media; gyroscope; picture-in-picture; web-share" allowFullScreen /></div><div className="cue"><span>COACHING CUE</span><p>{exercise.cue}</p></div></div><div className="entry-panel"><div className="set-line"><span>CURRENT SET</span><div>{Array.from({length:exercise.sets}).map((_,index)=><i key={index} className={index+1<=setNumber?"active":""}>{index+1}</i>)}</div></div><div className="metric-block"><label>REPS <small>Target {exercise.repRange}</small></label><div className="stepper"><button onClick={()=>setReps(Math.max(0,reps-1))} aria-label="Decrease reps">−</button><strong>{reps}</strong><button onClick={()=>setReps(reps+1)} aria-label="Increase reps">+</button></div></div><div className="metric-block"><label>LOAD <small>{exercise.unit==="body"?"Bodyweight":`Previous ${exercise.load} lb`}</small></label>{exercise.unit==="body"?<div className="bodyweight-value">BODYWEIGHT</div>:<div className="stepper"><button onClick={()=>setLoad(Math.max(0,load-5))} aria-label="Decrease load">−</button><strong>{load}<em>lb</em></strong><button onClick={()=>setLoad(load+5)} aria-label="Increase load">+</button></div>}</div><button className="log-set-button" onClick={saveSet}><span>Log set {setNumber}</span><b>{syncState==="saving"?"SAVING…":"SAVE + START REST"} →</b></button><p className="sync-line"><span className={syncState==="saving"?"pulse-dot":"green-dot"}/>{syncState==="saving"?"Saving this set":"Session log saved"}</p></div></div><div className="exercise-rail">{workout.exercises.map((item,index)=><button key={item.order} className={`${index===exerciseIndex?"active":""} ${index<exerciseIndex?"done":""}`} onClick={()=>{setExerciseIndex(index);setSetNumber(1);setReps(item.reps);setLoad(item.load)}}><span>{index<exerciseIndex?"✓":item.order}</span><b>{item.name}</b></button>)}</div>{resting&&<div className="timer-sheet" role="dialog" aria-label="Rest timer"><div className="timer-ring" style={{"--timer-progress":`${Math.round(restLeft/Math.max(1,restTarget)*360)}deg`} as React.CSSProperties}><strong>{formatTime(restLeft)}</strong><span>REST</span></div><div className="rest-info"><span>UP NEXT</span><b>{exercise.name} · Set {setNumber}</b><div className="rest-options" aria-label="Choose a shorter rest"><button onClick={()=>{setRestTarget(30);setRestLeft(30)}}>30 sec</button><button onClick={()=>{setRestTarget(60);setRestLeft(60)}}>60 sec</button></div></div><button className="skip-rest" onClick={()=>setResting(false)}>Skip →</button></div>}</section>}
     {view==="summary"&&<section className="summary-view"><div className="summary-hero"><span className="finish-check">✓</span><p className="kicker">WORKOUT COMPLETE</p><h1>Strong work.</h1><p>Day {workout.day} is in the books. Here’s what moved today.</p></div><div className="stats-grid"><div><span>WORKING SETS</span><strong>{logs.length+1}</strong><small>of {totalSets} planned</small></div><div><span>TRAINING VOLUME</span><strong>{(currentVolume/1000).toFixed(1)}k</strong><small>lb · logged so far</small></div><div><span>VS. LAST TIME</span><strong className={volumeChange>=0?"positive":""}>{volumeChange>=0?"+":""}{volumeChange}%</strong><small>matched loads</small></div><div><span>DURATION</span><strong>{duration}</strong><small>minutes</small></div></div><div className="analysis-card"><div><span className="analysis-tag">SESSION ANALYSIS</span><h2>{volumeChange>=3?"You’re ready to progress.":"Consistency is doing its job."}</h2><p>{volumeChange>=3?"Your logged volume is ahead of your previous loads. Keep form crisp; add 5 lb next time only where you reached the top of the rep range on every set.":"You stayed close to your previous performance. Keep the same working loads next session and aim to add one clean rep before increasing weight."}</p></div><div className="next-time"><span>NEXT TIME</span><ul><li>Keep compounds inside the target rep range.</li><li>Progress load only after all sets are clean.</li><li>Use the full rest period on your first two movements.</li></ul></div></div><div className="summary-actions"><a href={workout.sheetUrl} target="_blank" rel="noreferrer">Review source workbook ↗</a><button className="primary-action" onClick={()=>setView("home")}>Back to workouts <span>→</span></button></div></section>}
   </main>
 }
